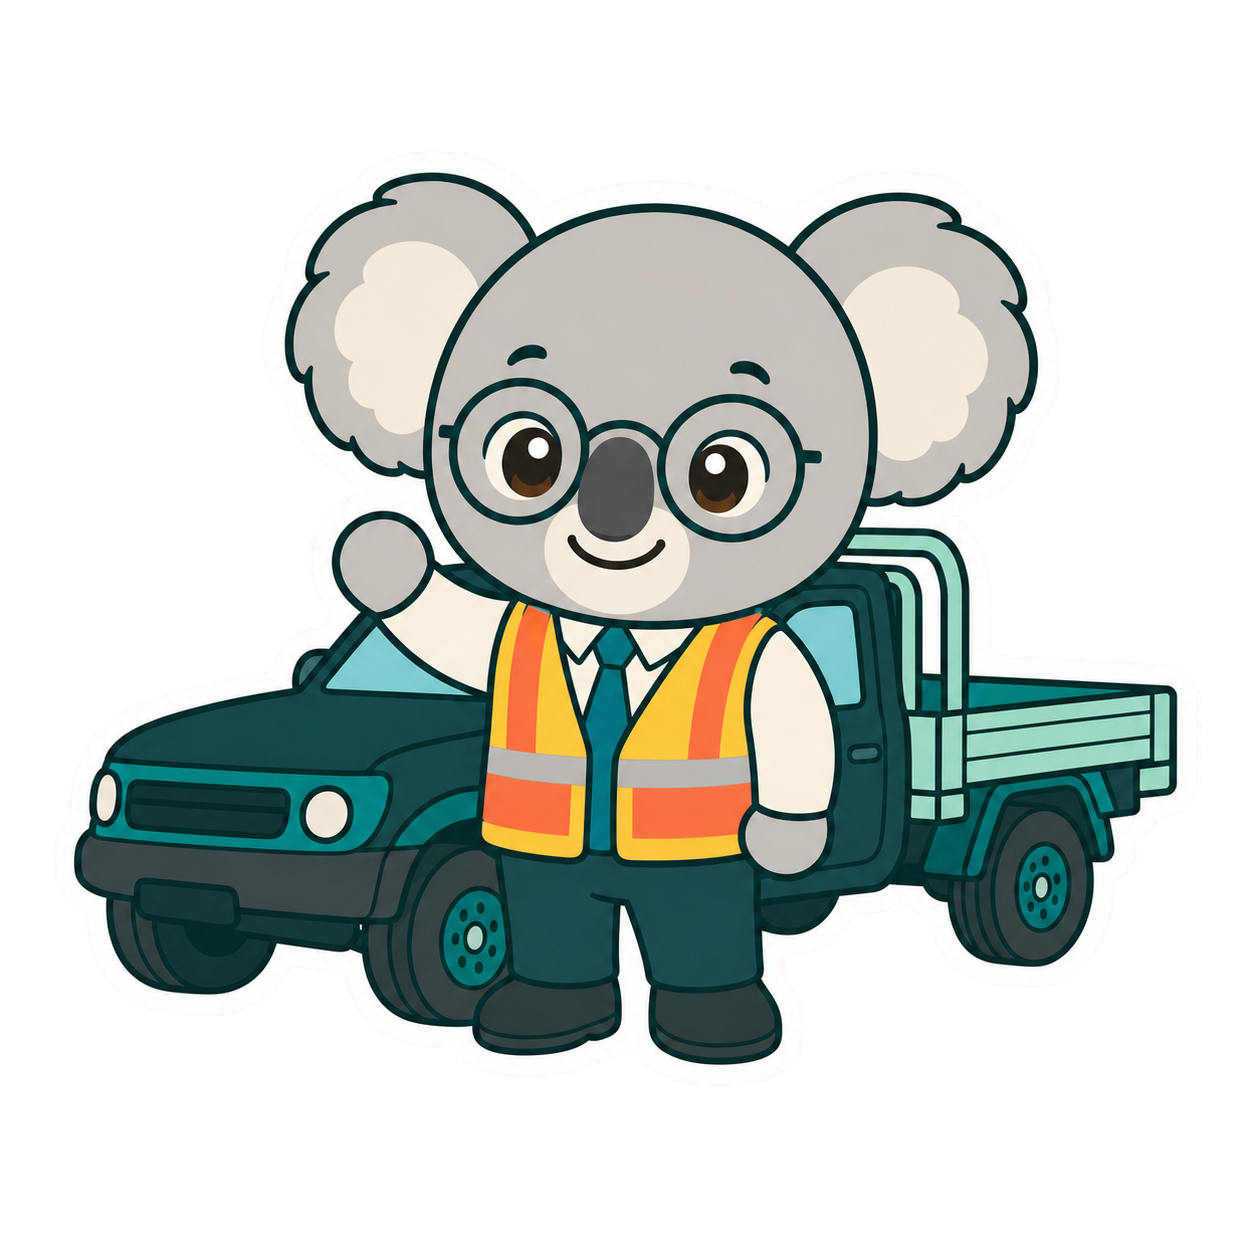
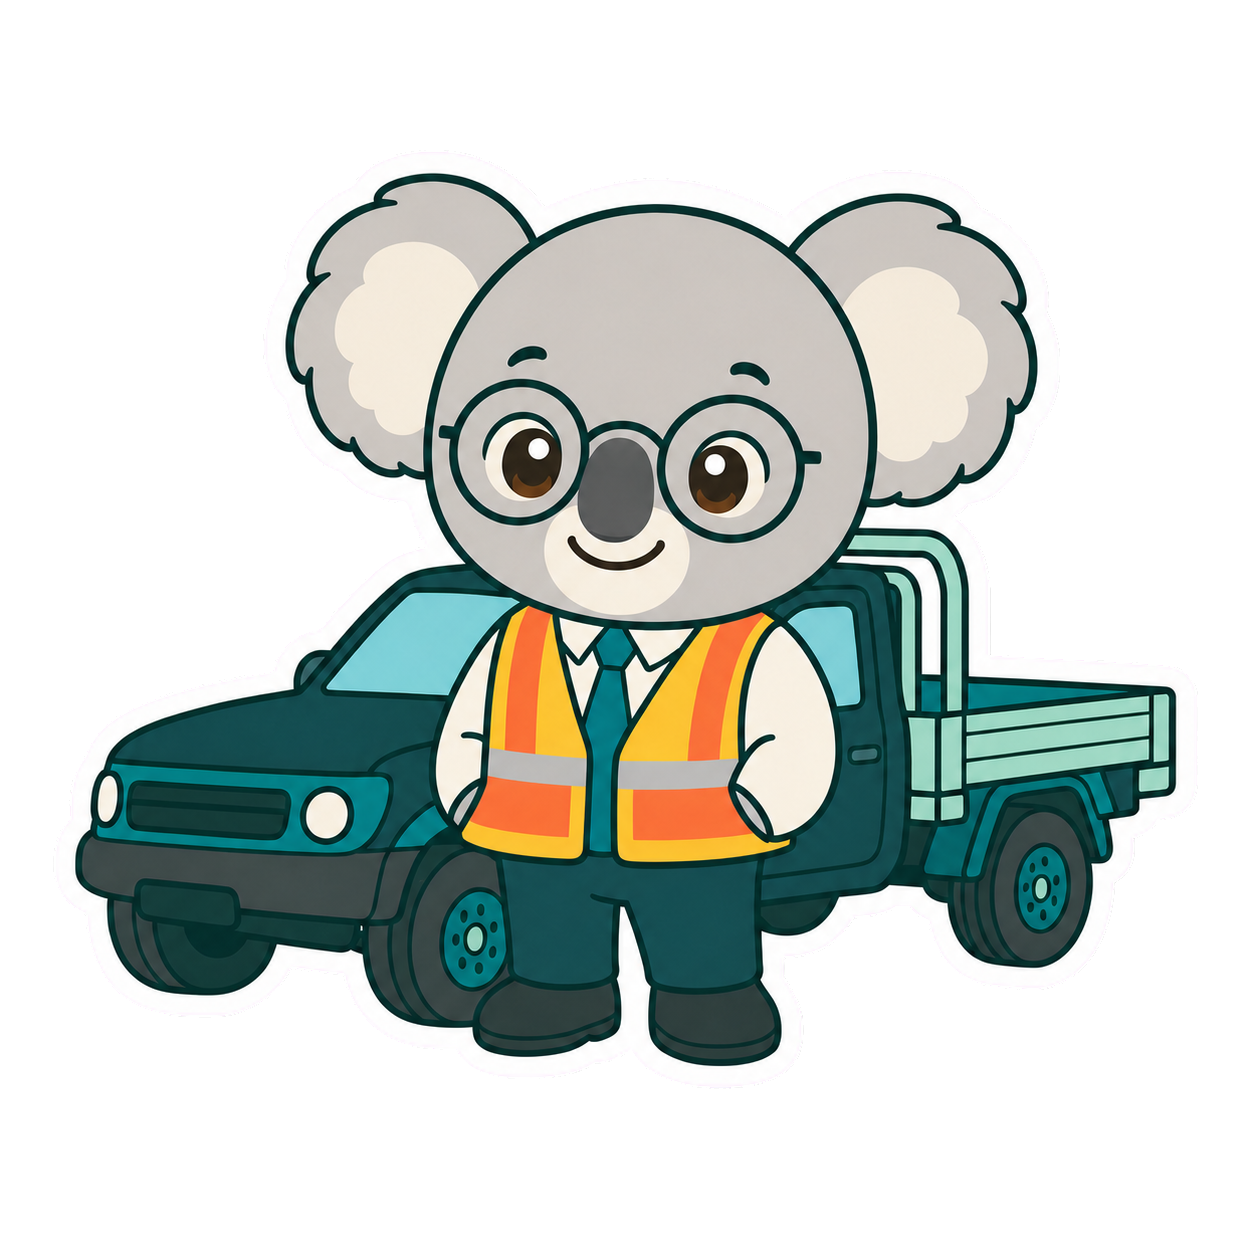
Refresh guide identity and simplify hero card

diff --git a/app/globals.css b/app/globals.css
@@ -239,7 +239,7 @@ main {
   border-radius: 32px;
   box-shadow: var(--shadow);
   color: var(--white);
-  min-height: 560px;
+  min-height: 370px;
   overflow: hidden;
   padding: 30px 38px 38px;
   position: relative;
@@ -352,102 +352,6 @@ main {
   font-family: Georgia, "Times New Roman", serif;
   font-size: 22px;
   font-weight: 500;
-}
-
-.route-line {
-  height: 78px;
-  margin: 0 auto;
-  position: relative;
-  width: 100%;
-}
-
-.route-line::before {
-  background: var(--mint);
-  content: "";
-  height: 32px;
-  left: calc(50% - 1px);
-  position: absolute;
-  top: 0;
-  width: 2px;
-}
-
-.route-line::after {
-  background: var(--mint);
-  content: "";
-  height: 2px;
-  left: 16.666%;
-  position: absolute;
-  top: 31px;
-  width: 66.668%;
-}
-
-.route-line i {
-  background: var(--mint);
-  bottom: 7px;
-  height: 40px;
-  position: absolute;
-  top: 31px;
-  transform: translateX(-50%);
-  width: 2px;
-  z-index: 2;
-}
-
-.route-line i::after {
-  background: var(--yellow);
-  border: 4px solid var(--ink);
-  border-radius: 50%;
-  bottom: -7px;
-  content: "";
-  height: 16px;
-  left: 50%;
-  position: absolute;
-  transform: translateX(-50%);
-  width: 16px;
-}
-
-.route-line i:first-child {
-  left: 16.666%;
-}
-
-.route-line i:nth-child(2) {
-  left: 50%;
-}
-
-.route-line i:nth-child(3) {
-  left: 83.334%;
-}
-
-.preview-destinations {
-  display: grid;
-  gap: 10px;
-  grid-template-columns: repeat(3, 1fr);
-}
-
-.preview-destinations span {
-  align-items: center;
-  aspect-ratio: 1.5;
-  background: rgba(255, 255, 255, 0.08);
-  border: 1px solid rgba(255, 255, 255, 0.24);
-  border-radius: 14px;
-  display: flex;
-  font-size: 11px;
-  font-weight: 800;
-  justify-content: center;
-  padding: 12px;
-  text-align: center;
-}
-
-.switchboard-preview > p {
-  bottom: 36px;
-  color: rgba(255, 255, 255, 0.66);
-  font-family: Georgia, "Times New Roman", serif;
-  font-size: 16px;
-  font-style: italic;
-  left: 0;
-  margin: 0;
-  position: absolute;
-  text-align: center;
-  width: 100%;
 }
 
 .trust-strip {
@@ -1644,7 +1548,7 @@ footer span {
   }
 
   .switchboard-preview {
-    min-height: 490px;
+    min-height: 340px;
     padding: 24px 20px;
   }
 
@@ -1663,24 +1567,6 @@ footer span {
 
   .preview-source {
     padding: 15px;
-  }
-
-  .route-line {
-    height: 72px;
-  }
-
-  .switchboard-preview > p {
-    bottom: 26px;
-    font-size: 14px;
-  }
-
-  .preview-destinations {
-    gap: 6px;
-  }
-
-  .preview-destinations span {
-    font-size: 9px;
-    padding: 8px;
   }
 
   .trust-strip {
@@ -1901,7 +1787,6 @@ footer span {
 .kicker,
 .preview-guide-copy small,
 .preview-source span,
-.preview-destinations span,
 .trust-strip,
 .trust-strip span,
 .form-block legend > span,

diff --git a/app/ServiceSwitchboard.tsx b/app/ServiceSwitchboard.tsx
@@ -238,31 +238,18 @@ export default function ServiceSwitchboard() {
             <span className="preview-guide-image">
               <img
                 src="/koala-switchboard-sticker.png"
-                alt="Kasey the Koala operating a colourful switchboard"
+                alt="Ollie the Koala operating a colourful switchboard"
               />
             </span>
             <span className="preview-guide-copy">
               <small>Your guide</small>
-              <strong>
-                Hey I&apos;m Kasey the Koala, your Service Switchboard bot!
-              </strong>
+              <strong>G’day! I’m Ollie, your Service Switchboard bot.</strong>
             </span>
           </div>
           <div className="preview-source">
             <span>Your experience</span>
             <strong>Skills that can travel</strong>
           </div>
-          <div className="route-line" aria-hidden="true">
-            <i />
-            <i />
-            <i />
-          </div>
-          <div className="preview-destinations">
-            <span>Role families</span>
-            <span>Public missions</span>
-            <span>Possible paths</span>
-          </div>
-          <p>One profile. More than one possible path.</p>
         </div>
       </section>
 
@@ -281,7 +268,7 @@ export default function ServiceSwitchboard() {
           <img
             className="section-sticker suitcase-sticker"
             src="/koala-suitcase-sticker.png"
-            alt="Kasey the Koala setting out with a suitcase"
+            alt="Ollie the Koala setting out with a suitcase"
           />
         </div>
 
@@ -445,7 +432,7 @@ export default function ServiceSwitchboard() {
               <img
                 className="form-sticker high-vis-sticker"
                 src="/koala-high-vis-ute-sticker.png"
-                alt="Kasey the Koala in high-visibility workwear beside a utility ute"
+                alt="Ollie the Koala with his paws in his high-vis vest pockets beside a utility ute"
               />
             </div>
           </fieldset>
@@ -660,7 +647,7 @@ export default function ServiceSwitchboard() {
           <span className="bot-card-mascot">
             <img
               src="/koala-switchboard-sticker.png"
-              alt="Kasey the Koala operating the Service Switchboard"
+              alt="Ollie the Koala operating the Service Switchboard"
             />
           </span>
           <div className="bot-card-title">
@@ -734,7 +721,8 @@ export default function ServiceSwitchboard() {
           </nav>
           <div className="footer-contact-details">
             <span>Inclusive Strategies Census Engagement Manager</span>
-            <span>Central Victoria</span>
+            <span>Bendigo, Australia</span>
+            <span>US Citizen. Full Australian working rights.</span>
             <a href="mailto:[email redacted]">[email redacted]</a>
           </div>
         </div>

diff --git a/README.md b/README.md
@@ -1,7 +1,7 @@
 # IM2026 Service Switchboard
 
 <p align="center">
-  <img src="public/koala-switchboard-sticker.png" alt="Kasey the Koala operating the Service Switchboard" width="380">
+  <img src="public/koala-switchboard-sticker.png" alt="Ollie the Koala operating the Service Switchboard" width="380">
 </p>
 
 **A mobile-first career guide for finding where your skills could fit across the Australian Public Service.**
@@ -64,7 +64,7 @@ The response is returned as structured data so the interface can present a consi
 5. Review the suggested next steps and the questions that still need an agency or recruitment contact to answer.
 
 <p align="center">
-  <img src="public/koala-suitcase-sticker.png" alt="Kasey the Koala carrying a suitcase" width="250">
+  <img src="public/koala-suitcase-sticker.png" alt="Ollie the Koala carrying a suitcase" width="250">
   <img src="public/koala-coffee-chat-sticker.png" alt="Two koala colleagues talking over coffee" width="300">
 </p>
 
@@ -93,7 +93,7 @@ If I extended this bot, I would explore approved APIs for live job boards and pu
 I would not release that capability without authentication, rate limits, logging, allowlisted data sources and abuse monitoring. Bringing government roles, teams and contact details together could also make targeting or social engineering easier for hostile foreign actors. Authentication adds friction, so it is intentionally out of scope for this simple, low-friction demo.
 
 <p align="center">
-  <img src="public/koala-high-vis-ute-sticker.png" alt="Kasey the Koala in high-visibility workwear beside a ute" width="360">
+  <img src="public/koala-high-vis-ute-sticker.png" alt="Ollie the Koala with his paws in his high-vis vest pockets beside a ute" width="360">
 </p>
 
 ## Bot Card
@@ -137,7 +137,8 @@ I would not release that capability without authentication, rate limits, logging
 > Kasey Robinson<br>
 > Inclusive Strategies Census Engagement Manager<br>
 > Australian Bureau of Statistics<br>
-> Central Victoria<br>
+> Bendigo, Australia<br>
+> US Citizen. Full Australian working rights.<br>
 > [email redacted]
 
 ## Information sources